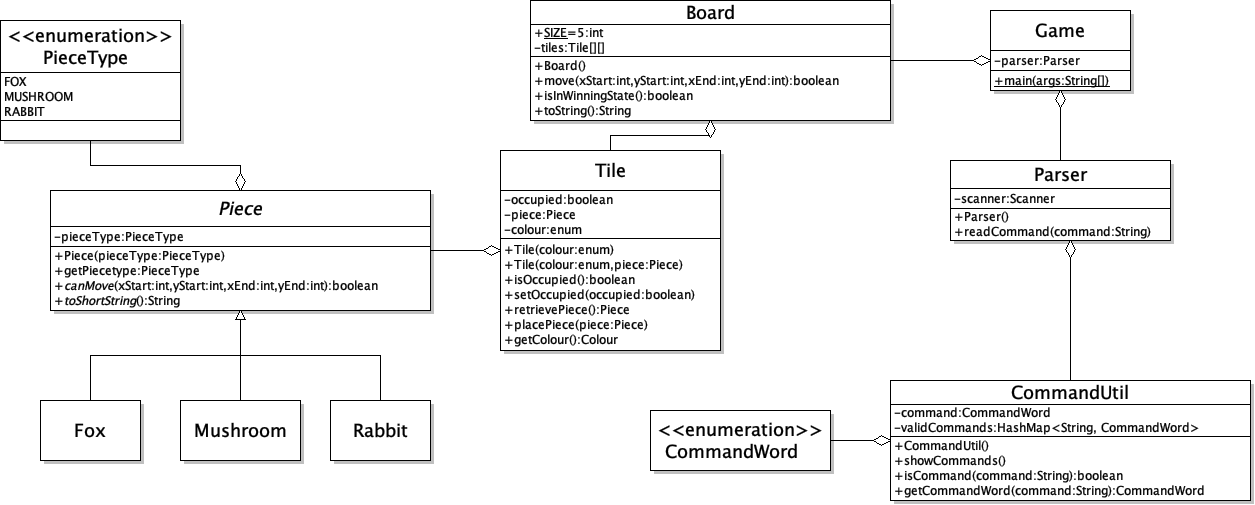
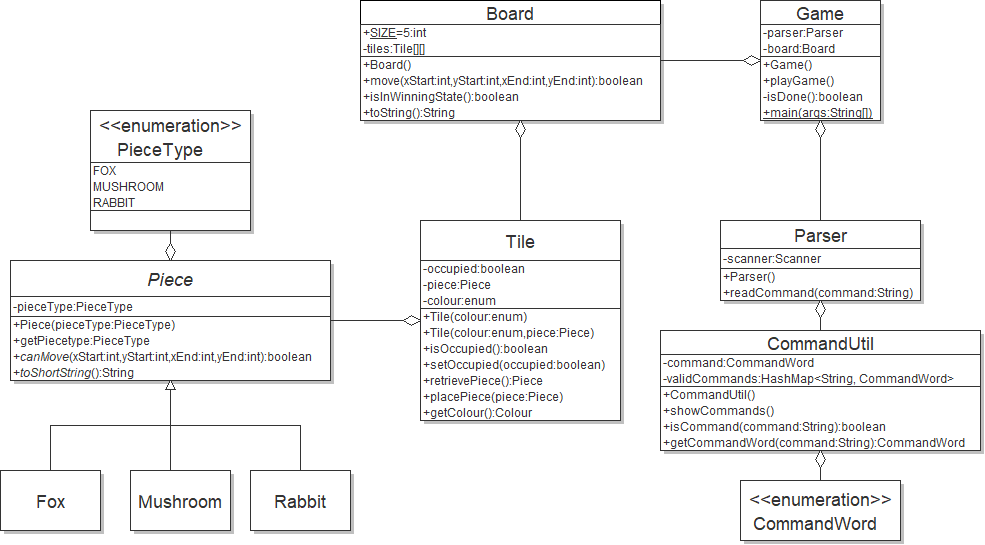
change game class, modified the formating for other classes, and updated uml

diff --git a/src/main/java/app/Board.java b/src/main/java/app/Board.java
@@ -1,7 +1,8 @@
 package app;
 
 /**
- * This class represents a board which keeps track of tiles and pieces within them.
+ * This class represents a board which keeps track of tiles and pieces within
+ * them.
  * 
  * @author Samuel Gamelin
  * @version 1.0
@@ -11,12 +12,12 @@ public class Board {
 	 * The size of any side for the board
 	 */
 	public static final int SIZE = 5;
-	
+
 	/**
 	 * A 2D array of tiles used to manager all tiles on the board
 	 */
 	private Tile[][] tiles;
-	
+
 	/**
 	 * Creates a board object, initializing it with the default game configuration.
 	 */
@@ -24,7 +25,7 @@ public class Board {
 		tiles = new Tile[SIZE][SIZE];
 		initializeDefaultBoard();
 	}
-	
+
 	/**
 	 * Initializes the board with a default tile and piece configuration
 	 */
@@ -37,7 +38,7 @@ public class Board {
 
 		// Center brown tile
 		tiles[2][2] = new Tile(Tile.Colour.BROWN);
-		
+
 		for (int i = 0; i < SIZE; i++) {
 			for (int j = 0; j < SIZE; j++) {
 				if (tiles[i][j] == null) {
@@ -45,35 +46,34 @@ public class Board {
 				}
 			}
 		}
-		
+
 		// Adding the mushrooms (there can be 0 to 3)
 		tiles[3][1].placePiece(new Mushroom());
 		tiles[2][4].placePiece(new Mushroom());
-		
+
 		// Adding the rabbits (there can be 1 to 3)
 		tiles[3][0].placePiece(new Rabbit());
 		tiles[4][2].placePiece(new Rabbit());
 		tiles[1][4].placePiece(new Rabbit());
-		
+
 		// Adding the foxes (there can be 0 to 2)
 		tiles[1][1].placePiece(new Fox());
 		tiles[4][3].placePiece(new Fox());
 	}
-	
+
 	/**
 	 * Makes a move.
 	 * 
 	 * @param xStart The starting x position
-	 * @param xEnd The ending x position
+	 * @param xEnd   The ending x position
 	 * @param yStart The starting y position
-	 * @param yEnd The ending y position
-	 * @return true if the move was successful, false if parameters are invalid or move was unsuccessful
+	 * @param yEnd   The ending y position
+	 * @return true if the move was successful, false if parameters are invalid or
+	 *         move was unsuccessful
 	 */
 	public boolean move(int xStart, int xEnd, int yStart, int yEnd) {
-		if (xStart < 0 || xStart > SIZE || xEnd < 0 || xEnd > SIZE
-				|| yStart < 0 || yStart > SIZE || yEnd < 0 || yEnd
-				> SIZE || !tiles[xStart][yStart].isOccupied()
-				|| tiles[xEnd][yEnd].isOccupied()) {
+		if (xStart < 0 || xStart > SIZE || xEnd < 0 || xEnd > SIZE || yStart < 0 || yStart > SIZE || yEnd < 0
+				|| yEnd > SIZE || !tiles[xStart][yStart].isOccupied() || tiles[xEnd][yEnd].isOccupied()) {
 			return false;
 		}
 		if (tiles[xStart][yStart].retrievePiece().canMove(xStart, xEnd, yStart, yEnd)) {
@@ -82,28 +82,29 @@ public class Board {
 		}
 		return false;
 	}
-	
+
 	/**
 	 * @return True if the board is in a winning state. False otherwise.
 	 */
 	public boolean isInWinningState() {
 		for (int i = 0; i < SIZE; i++) {
 			for (int j = 0; j < SIZE; j++) {
-				if (!(tiles[i][j] != null && tiles[i][j].getColour().equals(Tile.Colour.BROWN) && tiles[i][j].retrievePiece().getType().equals(Piece.PieceType.RABBIT))) {
+				if (!(tiles[i][j] != null && tiles[i][j].getColour().equals(Tile.Colour.BROWN)
+						&& tiles[i][j].retrievePiece().getType().equals(Piece.PieceType.RABBIT))) {
 					return false;
 				}
 			}
 		}
 		return true;
 	}
-	
+
 	/**
 	 * @return A string representation
 	 */
 	@Override
 	public String toString() {
 		StringBuilder representation = new StringBuilder();
-		
+
 		// Adding the top row of letters
 		for (int i = 0; i < SIZE; i++) {
 			representation.append(" ");
@@ -117,5 +118,5 @@ public class Board {
 			}
 		}
 		return representation.toString();
-	}	
+	}
 }

diff --git a/src/main/java/app/CommandUtil.java b/src/main/java/app/CommandUtil.java
@@ -6,50 +6,52 @@ package app;
 import java.util.HashMap;
 
 /**
- * The CommandUtil class is responsible for processing user
- * commands. It also keeps track of all possible commands
+ * The CommandUtil class is responsible for processing user commands. It also
+ * keeps track of all possible commands
  * 
  * @author John Breton
  * @version 1.0
  */
 public class CommandUtil {
-	
+
 	// Instance variable decelerations.
-	private CommandWord command; 
-	private HashMap<String, CommandWord> validCommands; //Maps a specific String to a valid CommandWord
-	
+	private CommandWord command;
+	private HashMap<String, CommandWord> validCommands; // Maps a specific String to a valid CommandWord
+
 	/**
 	 * Constructor for the CommandUtil class.
 	 */
 	public CommandUtil() {
 		validCommands = new HashMap<String, CommandWord>();
-		for(CommandWord command : CommandWord.values()) {
-			if(command != CommandWord.INVALID) {
+		for (CommandWord command : CommandWord.values()) {
+			if (command != CommandWord.INVALID) {
 				validCommands.put(command.toString(), command);
 			}
 		}
 	}
-	
+
 	/**
-	 * Displays a string of valid commands separated by a whitespace.
-	 * Once all the valid commands have displayed, a newline is printed.
+	 * Displays a string of valid commands separated by a whitespace. Once all the
+	 * valid commands have displayed, a newline is printed.
 	 */
 	public void showCommands() {
-		validCommands.entrySet().forEach(entry->{System.out.print(entry.getValue().toString() + " ");});
+		validCommands.entrySet().forEach(entry -> {
+			System.out.print(entry.getValue().toString() + " ");
+		});
 		System.out.println();
 	}
-	
+
 	/**
-	 * Checks to see if the passed String is a valid command for the game.
-	 * The valid commands for the game are 
+	 * Checks to see if the passed String is a valid command for the game. The valid
+	 * commands for the game are
 	 * 
 	 * @param command The string to check to determine if it's a valid command.
-	 * @return True if the passed string is a command, false otherwise. 
+	 * @return True if the passed string is a command, false otherwise.
 	 */
 	public boolean isCommand(String command) {
 		return true;
 	}
-	
+
 	/**
 	 * 
 	 * @param command

diff --git a/src/main/java/app/Parser.java b/src/main/java/app/Parser.java
@@ -5,28 +5,30 @@ package app;
 
 import java.util.ArrayList;
 import java.util.Scanner;
+
 /**
- * The Parser class is responsible for parsing user input. This input is
- * used to determine 
+ * The Parser class is responsible for parsing user input. This input is used to
+ * determine
  * 
- * @author John Breton 
+ * @author John Breton
  * @version 1.0
  */
 public class Parser {
 	// Instance variable
 	Scanner scanner;
-	
+
 	/**
-	 * Constructor for the Parser class. 
-	 * The parser is a Scanner that scans for user input.
+	 * Constructor for the Parser class. The parser is a Scanner that scans for user
+	 * input.
 	 */
 	public Parser() {
 		scanner = new Scanner(System.in);
 	}
-	
+
 	/**
 	 * 
-	 * @return An array containing the strings of the command (Minimum of 1 String, maximum of 3).
+	 * @return An array containing the strings of the command (Minimum of 1 String,
+	 *         maximum of 3).
 	 */
 	public ArrayList<String> readCommand() {
 		ArrayList<String> commands = new ArrayList<String>();

diff --git a/src/main/java/app/Game.java b/src/main/java/app/Game.java
@@ -9,12 +9,35 @@ package app;
  */
 public class Game {
 	private Parser parser;
+	private Board board;
+	private CommandUtil commandUtil;
 
 	/**
 	 * 
 	 */
 	public Game() {
-		parser = new Parser();
+		this.parser = new Parser();
+		this.board = new Board();
+	}
+
+	/***
+	 * 
+	 */
+	public void playGame() {
+
+//		while (!this.isDone()) {
+//			commandUtil = parser.readCommand();
+//			finished = processCommand(command);
+//		}
+
+	}
+
+	/***
+	 * 
+	 * @return true if the game is done
+	 */
+	private boolean isDone() {
+		return this.board.isInWinningState();
 	}
 
 	/***
@@ -22,7 +45,13 @@ public class Game {
 	 * @param args
 	 */
 	public static void main(String[] args) {
-		
+		Game game = new Game();
+		System.out.println("\n Welcome to JumpIN Game !");
+		System.out.println("This is a Fun Game");
+		System.out.println("Type 'help' if you need help. \n");
+		game.playGame();
+		System.out.println("Thank you for playing. Good bye.");
+
 	}
 
 }

diff --git a/src/main/java/app/Piece.java b/src/main/java/app/Piece.java
@@ -5,35 +5,35 @@ package app;
  * @author
  */
 public abstract class Piece {
-	
+
 	enum PieceType {
-		FOX,
-		MUSHROOM,
-		RABBIT
+		FOX, MUSHROOM, RABBIT
 	}
-	
+
 	private PieceType pieceType;
-	
+
 	/**
 	 * Construct a new piece given the specified piece type
+	 * 
 	 * @param pieceType The piece type of the piece, as a PieceType
 	 */
 	public Piece(PieceType pieceType) {
 		this.pieceType = pieceType;
 	}
-	
+
 	/**
 	 * @return This piece's type, as a PieceType
 	 */
 	public PieceType getPieceType() {
 		return pieceType;
 	}
-	
+
 	/**
-	 * @return True if the piece can move the specified start to end positions. False otherwise.
+	 * @return True if the piece can move the specified start to end positions.
+	 *         False otherwise.
 	 */
 	abstract boolean canMove(int xStart, int yStart, int xEnd, int yEnd);
-	
+
 	/**
 	 * @return A short, two-character string representing the piece.
 	 */

diff --git a/src/main/java/app/CommandWord.java b/src/main/java/app/CommandWord.java
@@ -1,26 +1,27 @@
 package app;
+
 /**
- * Stores all the possible command words for Rabbits and Foxes. 
- * It also stores the String representation.
+ * Stores all the possible command words for Rabbits and Foxes. It also stores
+ * the String representation.
  * 
  * @author John Breton
  * @version 1.0
  */
 public enum CommandWord {
 	HELP("help"), MOVE("move"), START("start"), QUIT("quit"), INVALID("invalid");
-	
+
 	// The string representation of command.
 	private String command;
-	
+
 	/**
 	 * Constructors the command as a String.
 	 * 
-	 * @param command The command as a String. 
+	 * @param command The command as a String.
 	 */
 	CommandWord(String command) {
 		this.command = command;
 	}
-	
+
 	@Override
 	/**
 	 * @return The String representation of the command.

diff --git a/src/main/java/app/Tile.java b/src/main/java/app/Tile.java
@@ -8,12 +8,11 @@ package app;
  *
  */
 public class Tile {
-	private Colour tileColour; 
-	
-	public enum Colour{
+	private Colour tileColour;
+
+	public enum Colour {
 		BROWN, GREEN
 	}
-		
 
 	public Tile(Colour tileColour) {
 		this.tileColour = tileColour;

diff --git a/src/main/java/app/Fox.java b/src/main/java/app/Fox.java
@@ -9,7 +9,7 @@ package app;
  *
  */
 public class Fox extends Piece {
-	
+
 	public Fox() {
 		super(PieceType.FOX);
 	}
